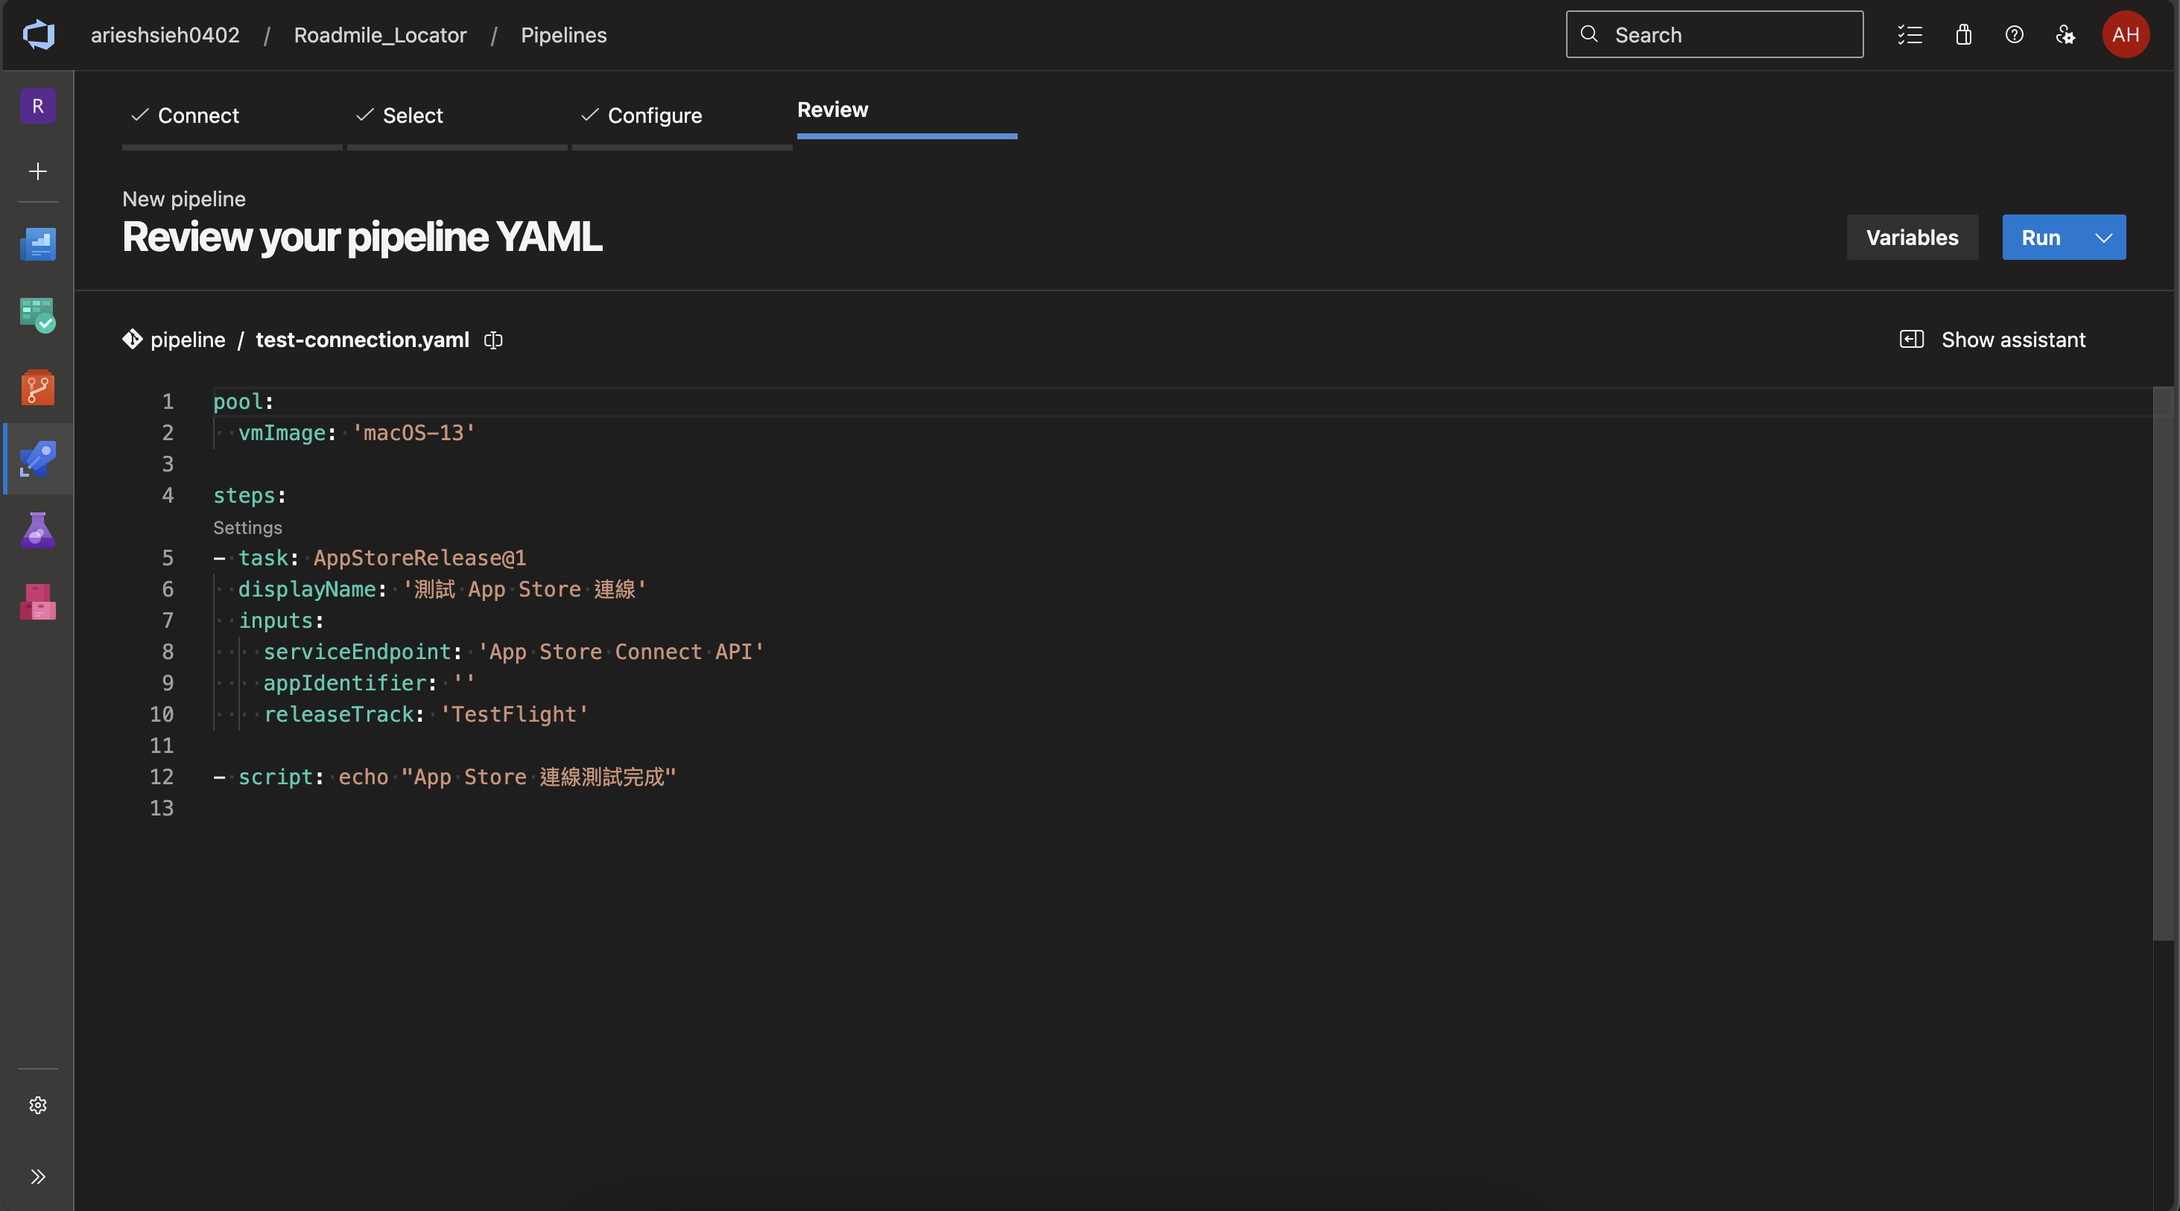
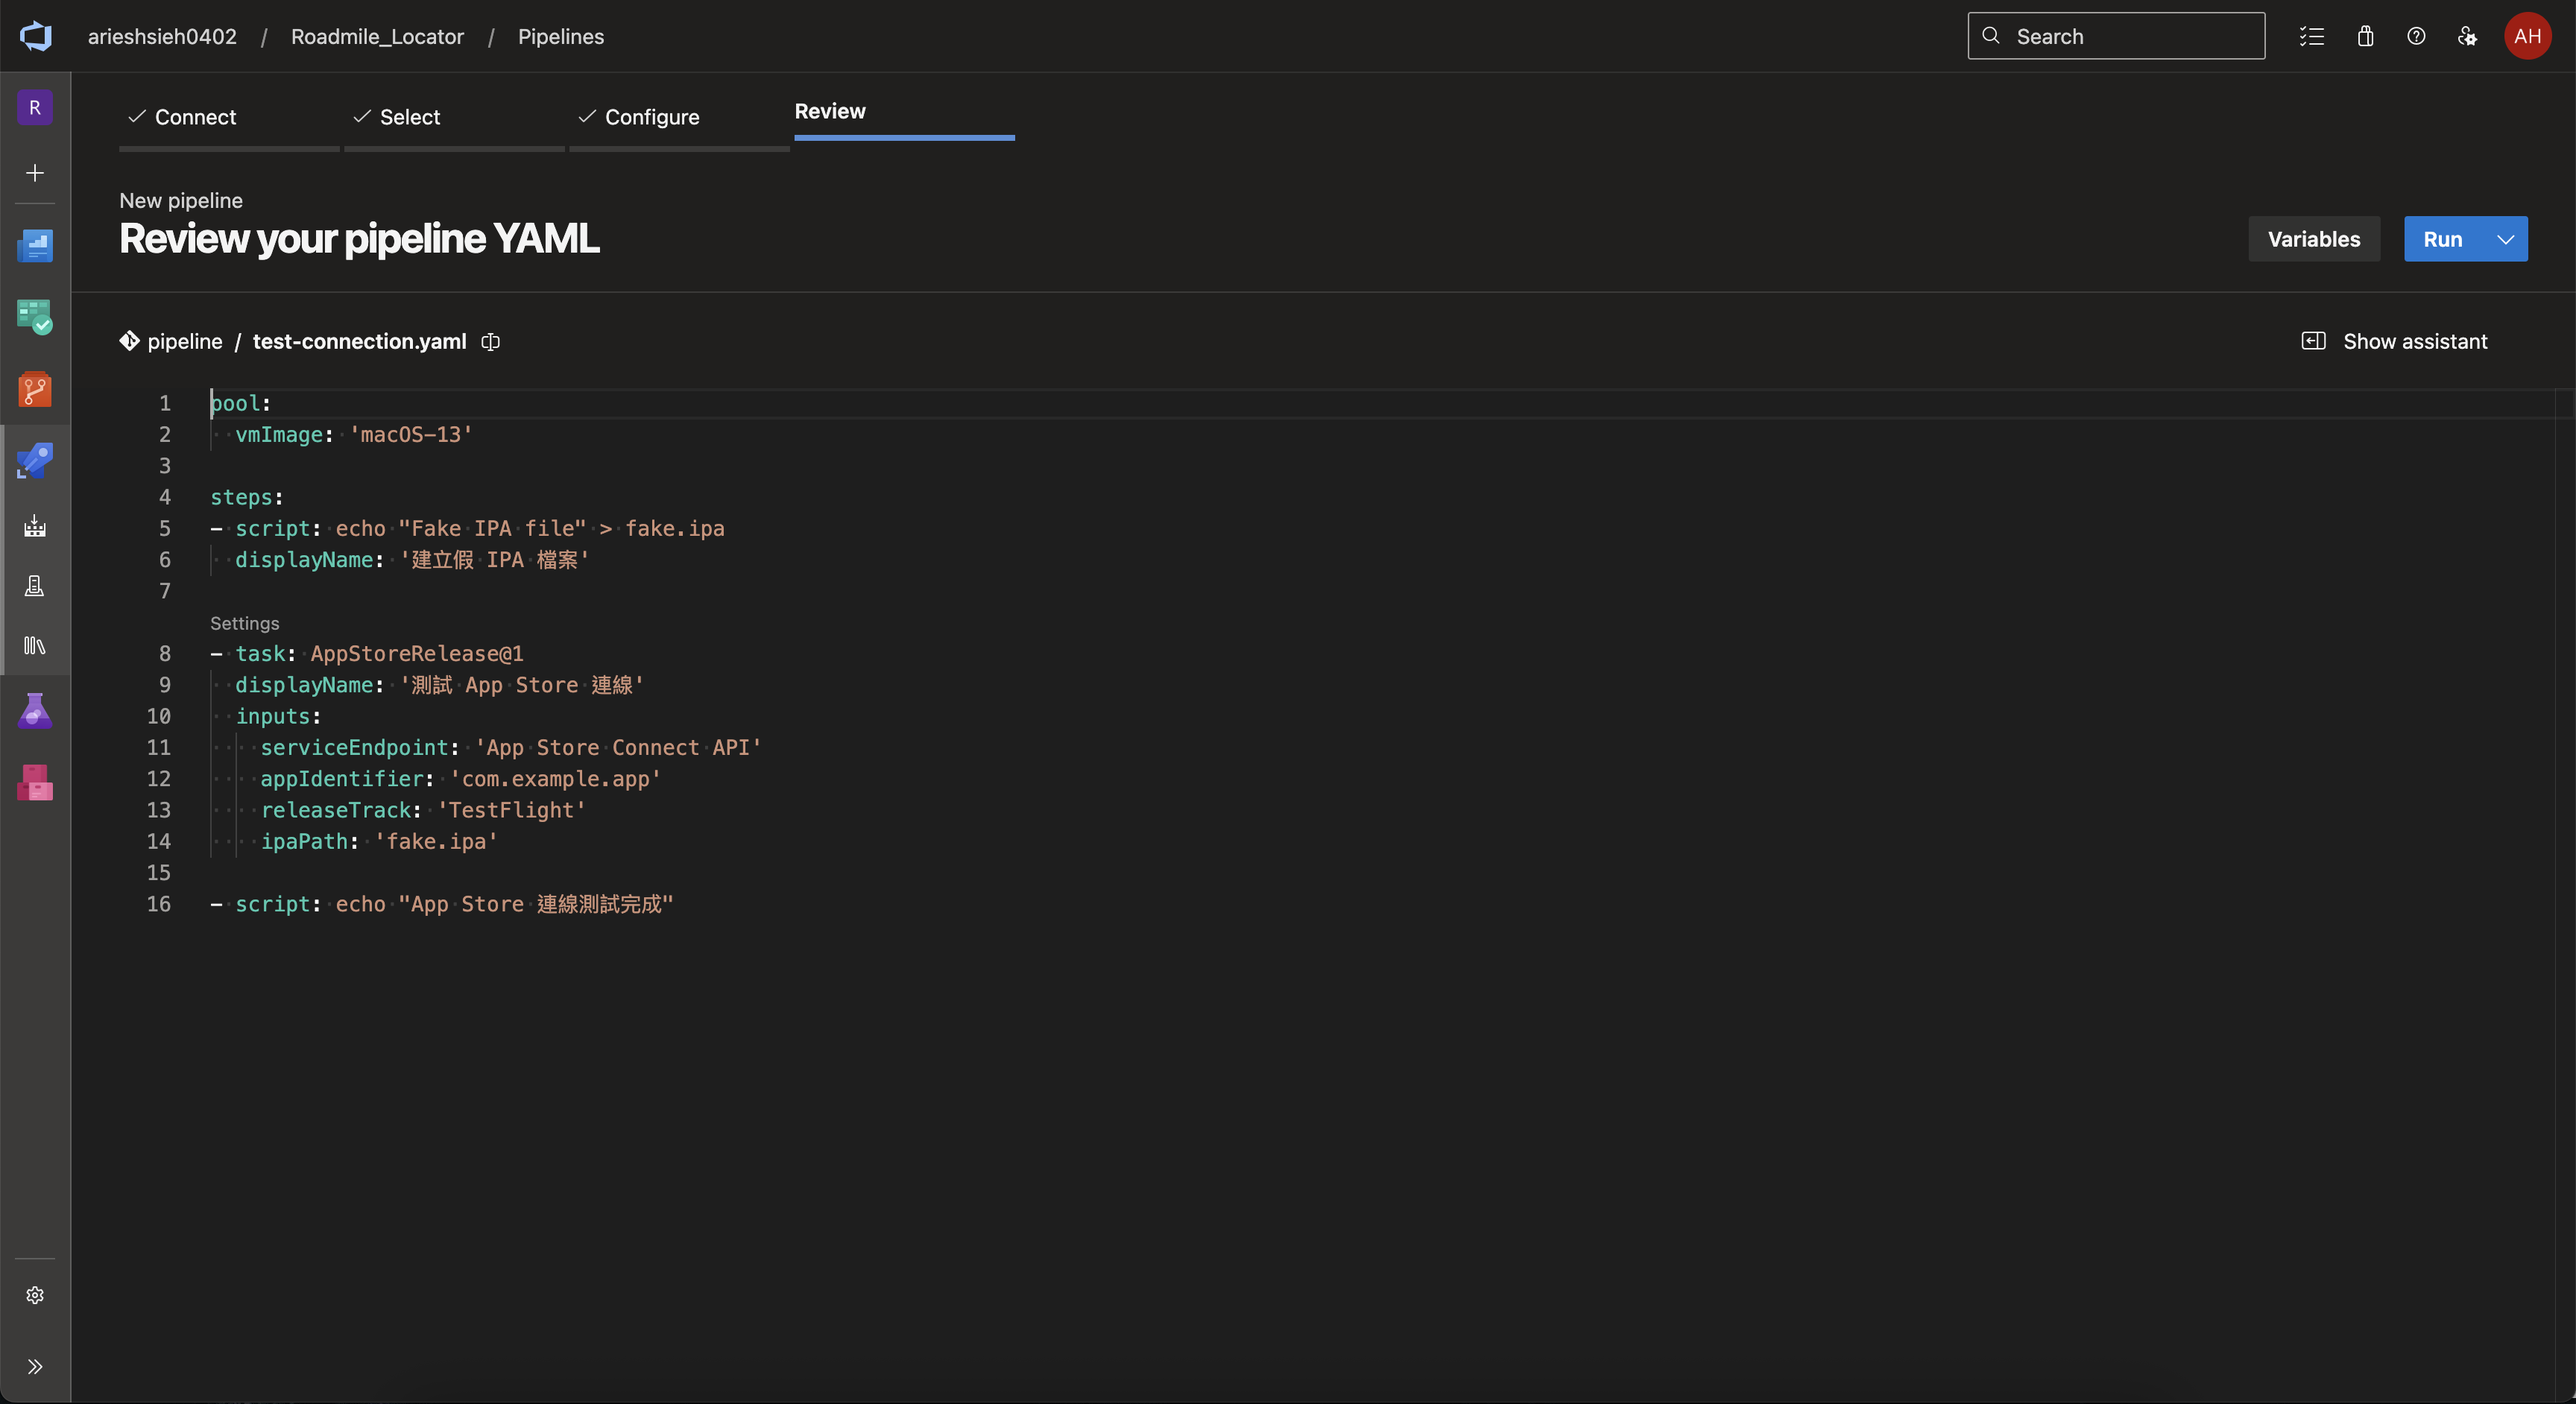
day 27

diff --git a/AriesHsieh/content/posts/2025-08-22-iron-day27/index.md b/AriesHsieh/content/posts/2025-08-22-iron-day27/index.md
@@ -94,12 +94,16 @@ pool:
   vmImage: 'macOS-13'
 
 steps:
+- script: echo "Fake IPA file" > fake.ipa
+  displayName: '建立假 IPA 檔案'
+
 - task: AppStoreRelease@1
   displayName: '測試 App Store 連線'
   inputs:
     serviceEndpoint: 'App Store Connect API'
-    appIdentifier: ''
+    appIdentifier: 'com.example.app'
     releaseTrack: 'TestFlight'
+    ipaPath: 'fake.ipa'
 
 - script: echo "App Store 連線測試完成"
 ```
@@ -139,3 +143,16 @@ steps:
 發生錯誤「No hosted parallelism has been purchased or granted」，去查了一下發現，現在 Azure 雖然免費帳號有每月 1800 分鐘的 pipeline 執行時間，但這個必須要填表單申請，詳解可以猜考前人文章。
 
 > 參考資料：[iT 邦幫忙教學](https://ithelp.ithome.com.tw/articles/10268594)
+
+---
+
+經過漫長的等待，終於開通權限了！讓我們重新 run 一次 pipeline：
+
+
+![alt text](azureSetting16.png)
+
+Log 中的 `Creating authorization token for App Store Connect API` 這一行顯示，Fastlane（Azure DevOps 在背景使用的工具）已經成功使用我們在 Service Connection 中設定的 API Key、Key ID 和 Issuer ID 來向蘋果的伺服器進行驗證並取得了授權 token，而因為我們的 appIdentifier 設定為不存在的 com.example.app，因此報錯 `[!] Couldn't find app 'com.example.app' on the account of '' on App Store Connect`，表示在我們的帳號下，找不到 Bundle Identifier 為 com.example.app 的應用程式。
+
+## 本日小結
+
+今天的執行結果達成了我們「測試連線」的目的，並證明了連線是通的。接著，我們就可以替 app 做最後的一些小修改，並且可以正式撰寫 pipeline，將 App 部署到 App Store Connect 上。
